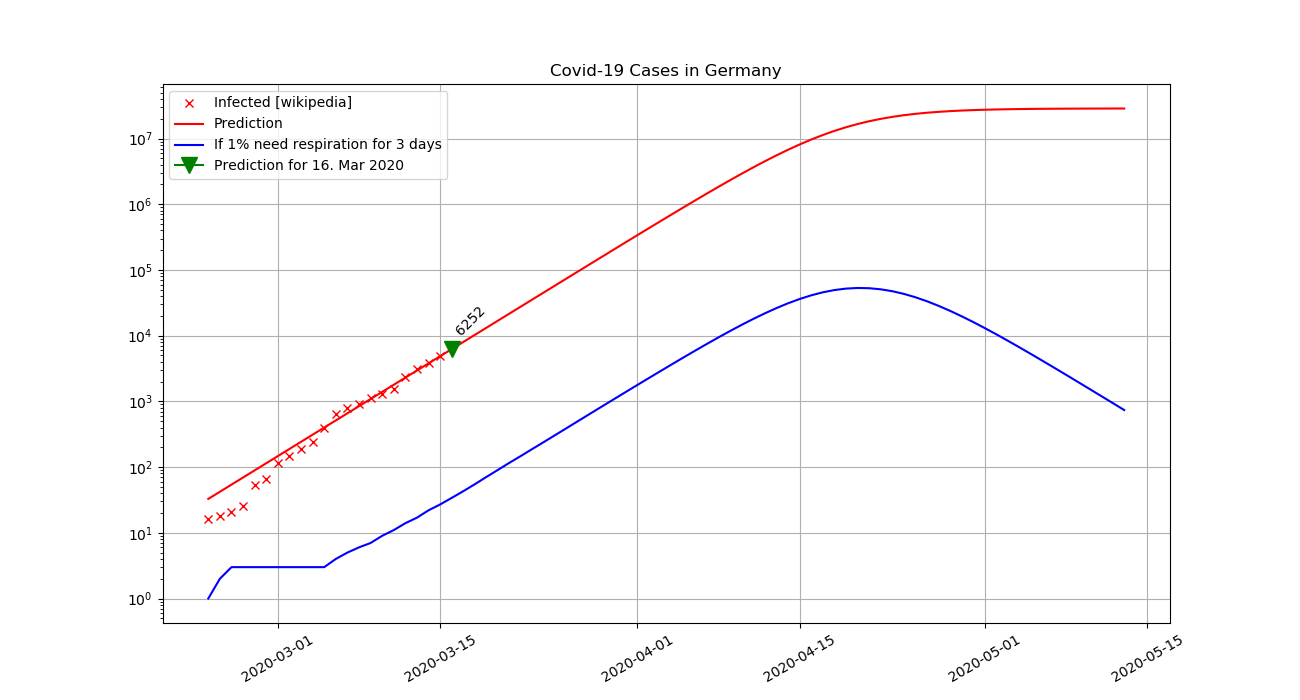
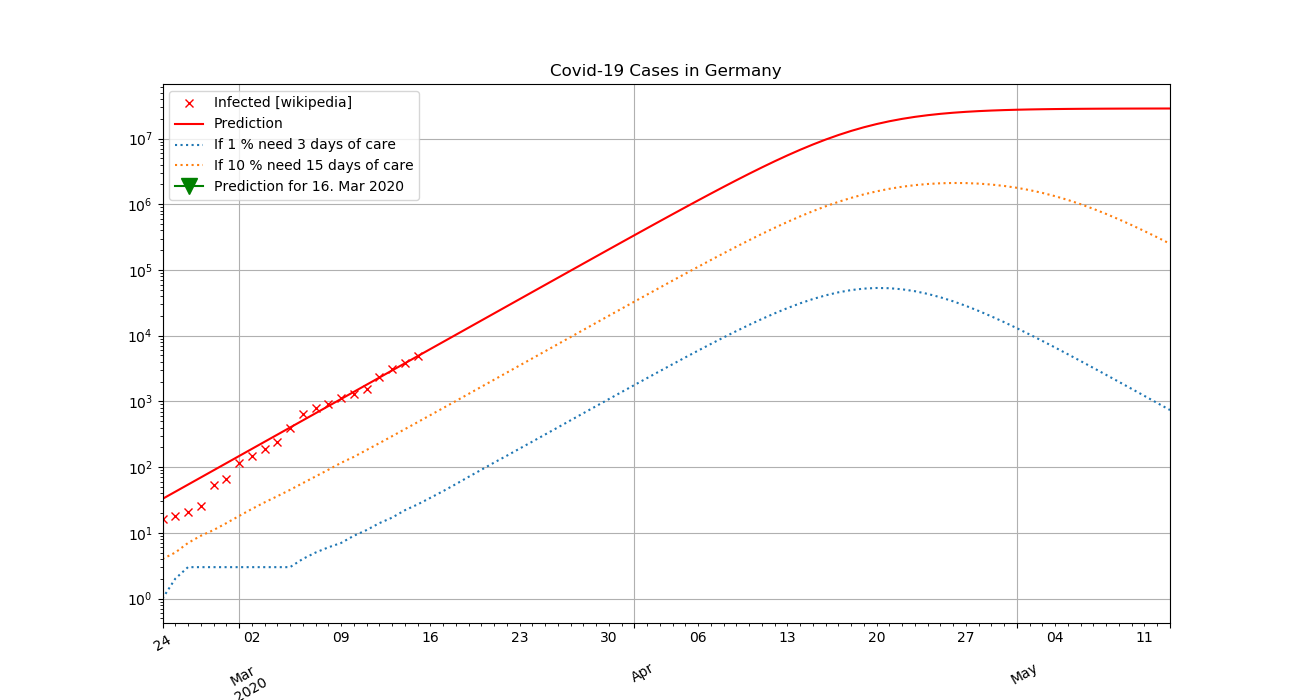
doesn't work yet, refactoring needed

diff --git a/index.html b/index.html
@@ -30,7 +30,7 @@ It is just a curve fit with two parameters, and I'm even hiding the R<sup>2</sup
 
 <p>For more scientific data rely on:</p>
 <ul>
-<li><a href="https://www.rki.de/DE/Content/InfAZ/N/Neuartiges_Coronavirus/nCoV.html">Rober Koch Institut</a></li>
+<li><a href="https://www.rki.de/DE/Content/InfAZ/N/Neuartiges_Coronavirus/nCoV.html">Robert Koch Institut</a></li>
 <li><a href="https://gisanddata.maps.arcgis.com/apps/opsdashboard/index.html#/bda7594740fd40299423467b48e9ecf6">Johns Hopkins University</a></li>
 <li><a href="https://www.worldometers.info/coronavirus/country/germany/">Worldometer.info</a></li>
 </ul>

diff --git a/coro.py b/coro.py
@@ -9,10 +9,13 @@ from matplotlib.dates import MO
 import statsmodels.api as sm
 from scipy import optimize as op
 
-P_I = 1 # percent of corona infected need intensive care
-N_R = 28e3 # number of respiratory capacities in germany
-N_B = 120e3 # number of hospital beds in germany
-N_D = 3 # number of days on a respirator
+
+PREDICTIONS = [{'days': 3,
+                'percentage': 1,
+                'key': 'If 1 % need 3 days of care'}]
+PREDICTIONS.append({'days': 15,
+                    'percentage': 10,
+                    'key': 'If 10 % need 15 days of care'})
 
 
 def logistic_function(x, k, x_0):
@@ -38,8 +41,11 @@ def get_prediction(data, N=70):
     pred = pd.DataFrame(data={'Prediction': f},
                         index=pd.date_range(start=data.index[0], periods=N[1]-N[0], freq='d'))
     new_infected_prediction = np.hstack([pred['Prediction'][0], np.diff(pred['Prediction'])])
-    pred['Intensive Care Prediction'] = np.ceil(new_infected_prediction * P_I/100)
-    pred['Cumulated Care Prediction'] = pred['Intensive Care Prediction'].rolling('%dd' % (N_D)).sum()
+    for prediction in PREDICTIONS:
+        prediction_key = prediction['key']
+        pred[prediction_key] = np.ceil(new_infected_prediction * prediction['percentage']/100)
+        pred[prediction_key] = pred[prediction_key].rolling('%dd' % (prediction['days'])).sum()
+
 
     return pred
 
@@ -47,12 +53,12 @@ def get_plot(data, pred, safepath):
     today = time.strftime('%Y-%m-%d')
     PREDICTION = np.ceil(pred.loc[today]['Prediction'])
     _, ax = plt.subplots(figsize=(13,7))
-    ax.plot(data.index, data['Infected'], marker='x', linestyle='', label='Infected [wikipedia]', color='red')
-#    ax.plot(data.index, data['Deceased'], marker='o', linestyle='', label='Deceased [wikipedia]', color='black')
-    ax.plot(pred.index, pred['Prediction'], label='Prediction', color='red')
-    ax.plot(pred.index, pred['Cumulated Care Prediction'],
-            label='If %d%% need respiration for %d days' % (P_I, N_D), color='blue')
-#    ax.plot([pred.index[0], pred.index[-1]], [N_R, N_R], label='Number of respiratory beds in Germany')
+    data['Infected'].plot(ax=ax, marker='x', linestyle='', label='Infected [wikipedia]', color='red')
+    pred['Prediction'].plot(ax=ax, label='Prediction', color='red')
+    for prediction in PREDICTIONS:
+        prediction_key = prediction['key']
+        pred[prediction_key].plot(label=prediction_key, linestyle=':')
+
     ax.plot(pd.to_datetime(today), PREDICTION, marker='v', color='green', markersize=12,
             label='Prediction for %s' % (time.strftime('%d. %b %Y')))
     ax.annotate('%d' %(PREDICTION), (pd.to_datetime(today), PREDICTION),
@@ -99,7 +105,7 @@ It is just a curve fit with two parameters, and I'm even hiding the R<sup>2</sup
 
 <p>For more scientific data rely on:</p>
 <ul>
-<li><a href="https://www.rki.de/DE/Content/InfAZ/N/Neuartiges_Coronavirus/nCoV.html">Rober Koch Institut</a></li>
+<li><a href="https://www.rki.de/DE/Content/InfAZ/N/Neuartiges_Coronavirus/nCoV.html">Robert Koch Institut</a></li>
 <li><a href="https://gisanddata.maps.arcgis.com/apps/opsdashboard/index.html#/bda7594740fd40299423467b48e9ecf6">Johns Hopkins University</a></li>
 <li><a href="https://www.worldometers.info/coronavirus/country/germany/">Worldometer.info</a></li>
 </ul>
@@ -142,4 +148,4 @@ data = get_data()
 pred = get_prediction(data=data, N=80)
 get_plot(data=data, pred=pred, safepath=time.strftime('%y%m%d_corona.png'))
 write_index()
-# plt.show()
+plt.show()
